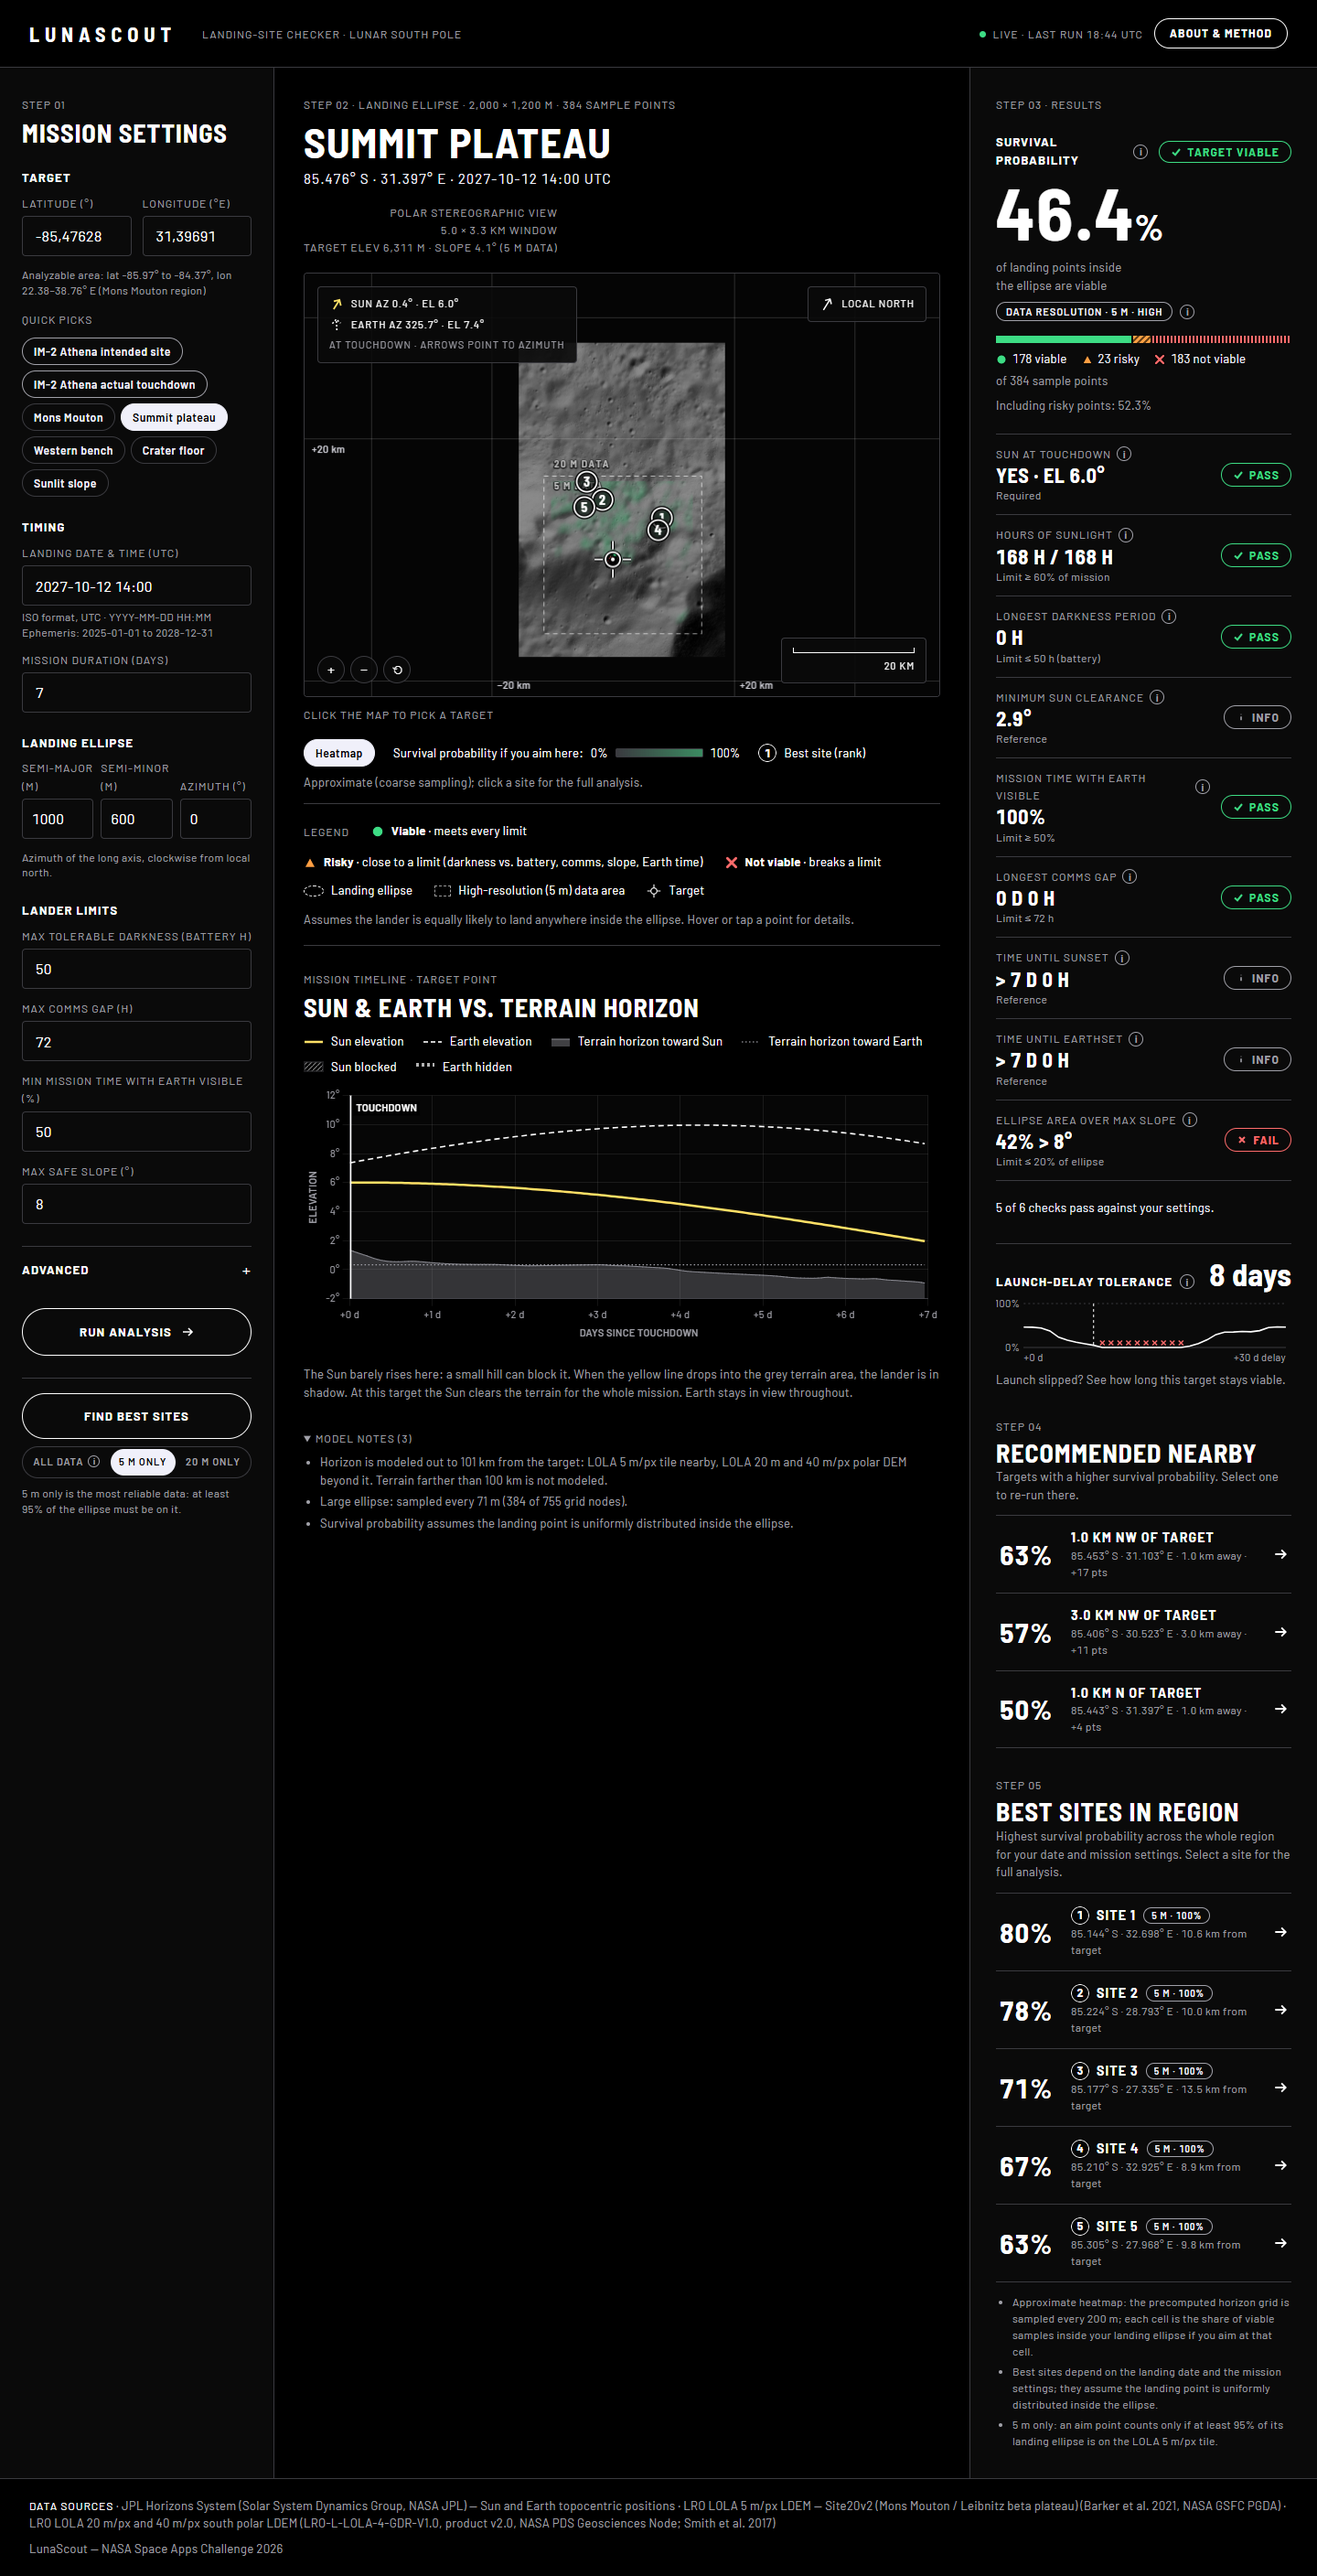
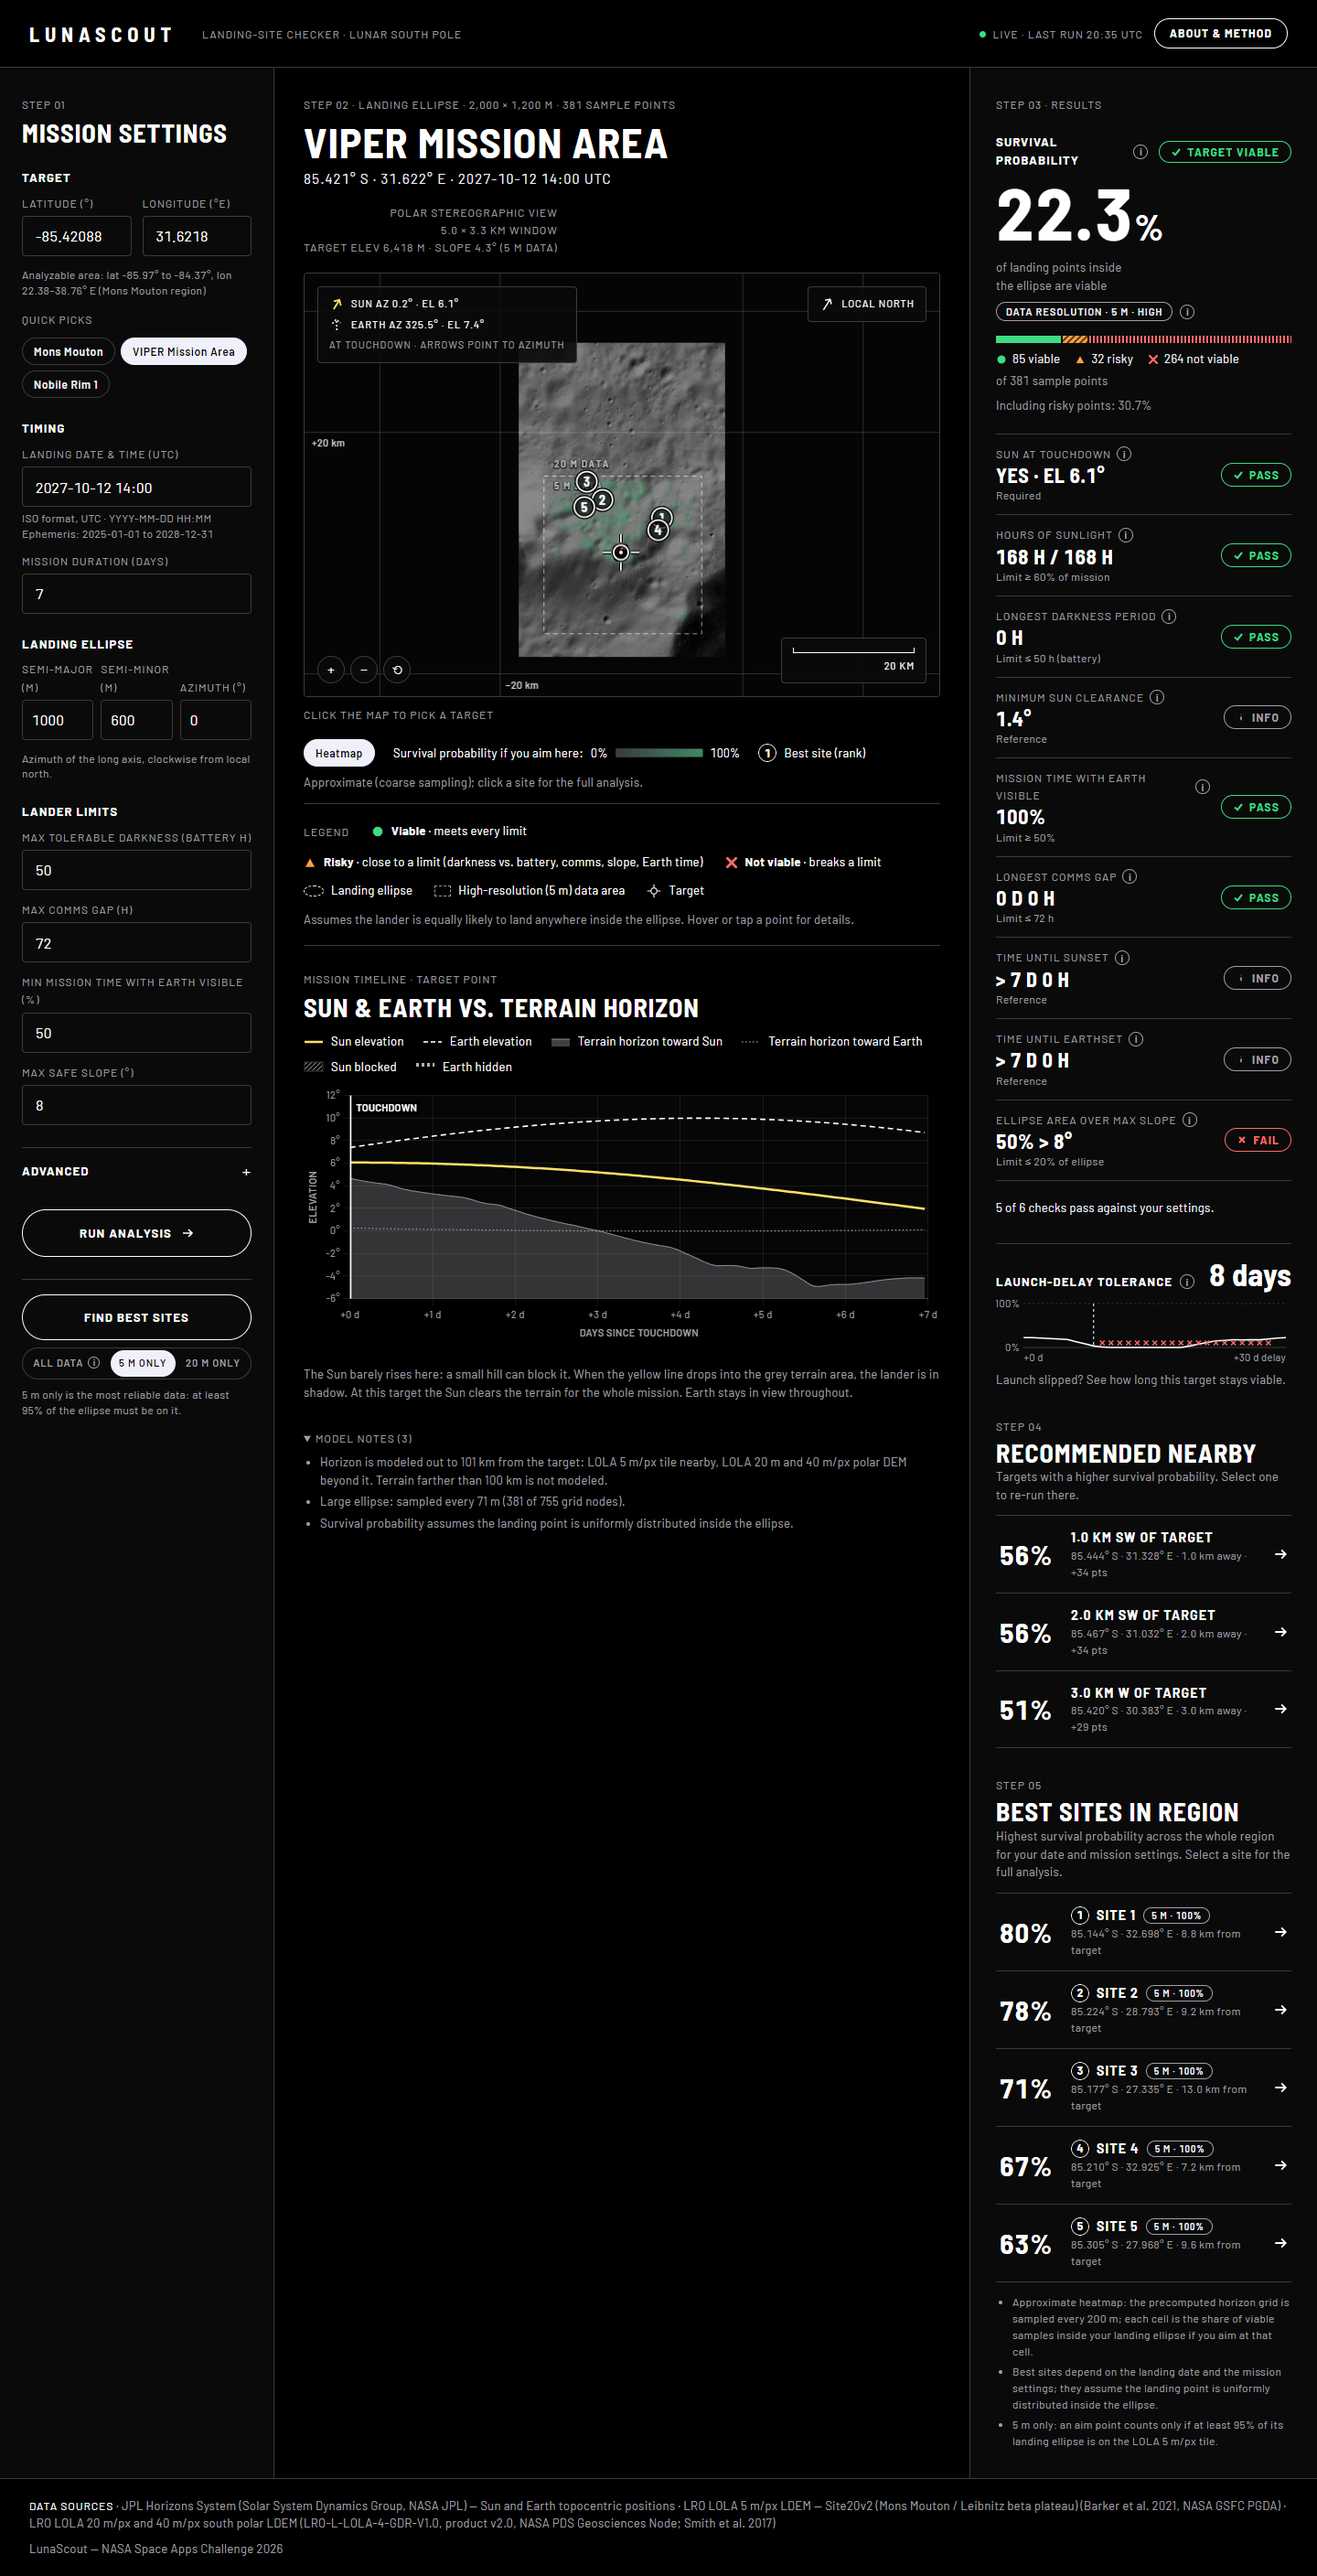
docs: retake screenshots with the new quick picks
Desktop (Sunlit slope typed in, 17.7%), best sites (VIPER Mission Area +
Find best sites, 5 m only) and mobile (390 px), live API schema 1.6.
Update the best-sites caption and the checklist item.

diff --git a/docs/submission/checklist.md b/docs/submission/checklist.md
@@ -47,7 +47,7 @@ Tick each box only after you have checked it yourself.
 - [ ] No sample or made-up data is shown as real. The only sample data is `fixtures/sample_response.json`, behind the **SAMPLE DATA — API OFFLINE** badge.
 - [ ] Athena wording is the validated one: *off target by a few hundred metres, tipped over in a ~20 m crater, mission ended about 12–13 h later.* **Never** "landed in shadow", "LunaScout would have predicted/saved Athena", or "validated against observations" (`docs/validation.md` §10).
 - [ ] Numbers used are only those in `docs/validation.md` §10, our own app output, or cited sources. Fonts, libraries and data sources are listed with licences/attribution.
-- [ ] README screenshots still match the final deployment. **Both need a retake:** `docs/ui-desktop.png` (Sunlit slope, 17.7 %) and `docs/ui-best-sites.png` still show the old quick-pick buttons (IM-2 Athena, Summit plateau, Western bench, Crater floor, Sunlit slope), replaced in PR #15 by Mons Mouton, VIPER Mission Area and Nobile Rim 1. The 17.7 % figure itself is unchanged on schema 1.6.
+- [ ] README screenshots still match the final deployment. Retaken on 15 Nov 2026 from a local build of `develop` against the live API (schema 1.6), with the new quick picks: `docs/ui-desktop.png` (Sunlit slope typed in, 17.7 %), `docs/ui-best-sites.png` (VIPER Mission Area + Find best sites, 5 m only) and `docs/ui-mobile.png` (390 px). Retake them if the UI or numbers change again.
 - [ ] **"Find best sites"** works on https://lunascout.web.app: heatmap and five ranked sites, labelled "Approximate"; clicking a site runs the full analysis. Checked through the API on 15 Nov 2026 (schema 1.6, defaults, all data): best site 79.5 % at −85.1436, 32.69785.
 - [ ] **Quick picks** show exactly Mons Mouton, VIPER Mission Area and Nobile Rim 1, and each runs. Nobile Rim 1 gives **0 %** on the default settings; that is a real result, not an error.
 - [ ] **Athena by hand** (it is no longer a quick pick): latitude −84.79059, longitude 29.19567, landing 2025-03-06 17:28 UTC (the analysis rounds to 17:00), 10 days → about **92.7 % viable** on 20 m data (live, 15 Nov 2026). Say why it shows viable (`docs/athena_replay.md`): the ~20 m crater is below the data resolution and the lander is assumed upright.

diff --git a/README.md b/README.md
@@ -22,7 +22,7 @@ Built for the NASA Space Apps Challenge 2026, challenge *Lunar Landing Site Navi
 
 ![LunaScout main screen, live run of the Sunlit slope target −85.48962, 30.66935 (2027-10-12): landing ellipse with viable/risky/not-viable points, survival probability 17.7 %, timeline and recommended nearby targets](docs/ui-desktop.png)
 
-![Find best sites: approximate heatmap of the survival probability if you aim at each spot, with the five best aim points ranked on the map and in the results panel](docs/ui-best-sites.png)
+![Find best sites, live run from the VIPER Mission Area quick pick (2027-10-12, 5 m data only): approximate heatmap of the survival probability if you aim at each spot, with the five best aim points ranked on the map and in the results panel (best 80 %)](docs/ui-best-sites.png)
 
 ## Why the whole ellipse
 
